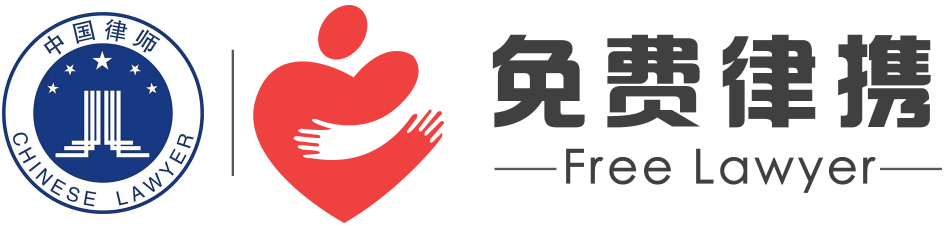
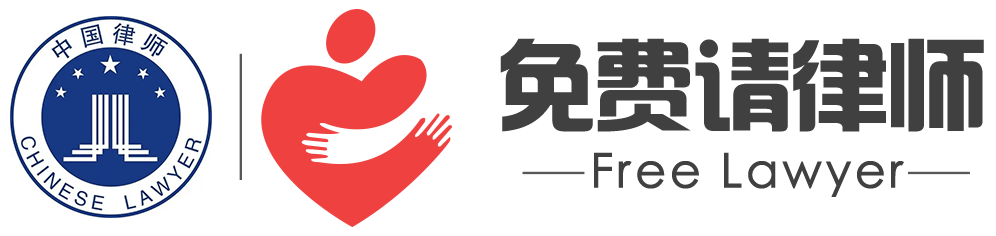
several modifications

Changed region(s): [[0.0, 0.0307, 1.0, 0.9825], [0.5211, 0.6447, 1.0, 0.8596]]

diff --git a/src/pages/home/index.jsx b/src/pages/home/index.jsx
@@ -1,6 +1,7 @@
 import styles from './index.module.scss'
 import imgHomeBanner from '../../assets/images/img_home_banner.png'
 import imgHomeHeart from '../../assets/images/img_home_heart.png';
+import imgHomeHandsInHands from '../../assets/images/img_home_hands_in_hands.png';
 import imgHomeBlockedHeart from '../../assets/images/img_home_blocked_heart.png'
 import icQualification1 from '../../assets/ic_home_qualification1.svg';
 import icQualification2 from '../../assets/ic_home_qualification2.svg';
@@ -8,6 +9,10 @@ import icQualification3 from '../../assets/ic_home_qualification3.svg';
 import icHonor from '../../assets/ic_home_honor.svg';
 import icInvestigation from '../../assets/ic_home_investigation.svg';
 import icReport from '../../assets/ic_home_report.svg';
+import icHomeLogoDouyin from '../../assets/ic_logo_douyin.png';
+import icHomeLogoJinritoutiao from '../../assets/ic_logo_jinritoutiao.png';
+import icHomeLogoSinaBlog from '../../assets/ic_logo_sina_blog.png';
+import icHomeLogoLongwen from '../../assets/ic_logo_longwen.png';
 
 import {Button} from "antd-mobile";
 
@@ -29,7 +34,7 @@ function HomePage() {
             <div className={styles.bannerWrapper}>
                 <img src={imgHomeBanner} className={styles.bannerImage}/>
                 <div className={styles.bannerTextWrapper}>
-                    <span>律携联盟·平稳运行6年211天</span>
+                    <span>免费请律师·平稳运行6年211天</span>
                     <span style={{fontSize: '2.8rem', fontWeight: 'bold'}}>已捐助互助金3.24亿元</span>
                     <span>累计帮助全国6889个人</span>
                 </div>
@@ -39,12 +44,12 @@ function HomePage() {
             <div className={styles.principleWrapper}>
                 <div className={styles.titleWrapper}>
                     <div className={styles.indicator}/>
-                    <span className={styles.title}>律携互助原理</span>
+                    <span className={styles.title}>免费请律师互助原理</span>
                 </div>
                 <div className={styles.heartWrapper}>
                     <img src={imgHomeHeart} className={styles.heartShape}/>
                     <div className={styles.textWrapper}>
-                        <span>如果100万会员，有1人需要法律协助! 每人均摊1元，民事案件1000元； 刑事案件3000元；即可助其度过难关</span>
+                        <span>如果100万会员，有1人需要法律协助！<br/>每人均摊1元，民事案件1000元；<br/> 刑事案件3000元；即可助其度过难关</span>
                         <span style={{color: 'red'}}>无事儿我帮人，有事儿人帮我</span>
                     </div>
                 </div>
@@ -63,14 +68,14 @@ function HomePage() {
                     </div>
                 </div>
                 <div className={styles.planWrapper}>
-                    <div className={styles.planTitle}>律携互助计划60元(5年服务)</div>
+                    <div className={styles.planTitle}>免费请律师互助计划60元(5年服务)</div>
                     <div className={styles.planContent}>
-                        <div className={styles.placeholderBlock}/>
+                        <img src={imgHomeHandsInHands} className={styles.placeholderBlock} />
                         <div className={styles.planDetailWrapper}>
                             <span style={{fontSize: '1.6rem', color: '#030303'}}>最高互助金额<span
-                                style={{color: 'red'}}>10000元</span></span>
-                            <span>民事案件3000元</span>
-                            <span>刑事案件10000元</span>
+                                style={{color: 'red'}}>30000元</span></span>
+                            <span>民事案件10000元</span>
+                            <span>刑事案件30000元</span>
                             <Button className={styles.styledButton}>为亲友加入</Button>
                         </div>
                     </div>
@@ -97,11 +102,11 @@ function HomePage() {
                 <div className={styles.itemWrapper}>
                     <div className={styles.descTitleWrapper}>
                         <img src={icHonor} className={styles.iconWrapper2}/>
-                        <span>律携荣誉</span>
+                        <span>获得荣誉</span>
                     </div>
                     <div className={styles.descContentWrapper}>
                         <span>河南龙文律师事务所</span>
-                        <span>天使中国·创新创业大赛冠军</span>
+                        <span>中国·创新大赛优秀奖</span>
                         <span>2024科技创新创业先进单位</span>
                     </div>
                 </div>
@@ -111,10 +116,9 @@ function HomePage() {
                         <span>权威报道</span>
                     </div>
                     <div className={styles.descContentWrapper2}>
-                        <img src={icInvestigation} className={styles.logoWrapper}/>
-                        <img src={icInvestigation} className={styles.logoWrapper}/>
-                        <img src={icInvestigation} className={styles.logoWrapper}/>
-                        <img src={icInvestigation} className={styles.logoWrapper}/>
+                        <img src={icHomeLogoDouyin} className={styles.logoWrapper}/>
+                        <img src={icHomeLogoJinritoutiao} className={styles.logoWrapper}/>
+                        <img src={icHomeLogoSinaBlog} className={styles.logoWrapper}/>
                     </div>
                 </div>
                 <div className={styles.itemWrapper}>
@@ -123,8 +127,7 @@ function HomePage() {
                         <span>权威投资</span>
                     </div>
                     <div className={styles.descContentWrapper2}>
-                        <img src={icInvestigation} className={styles.logoWrapper}/>
-                        <img src={icInvestigation} className={styles.logoWrapper}/>
+                        <img src={icHomeLogoLongwen} className={styles.logoWrapper}/>
                     </div>
                 </div>
             </div>

diff --git a/src/pages/about/index.jsx b/src/pages/about/index.jsx
@@ -127,10 +127,10 @@ function AboutPage() {
         switch (operationType) {
             case 'know': {
                 const result = await Modal.alert({
-                    title: '关于律携',
+                    title: '关于免费请律师',
                     content: (
                         <div style={{padding: '10px'}}>
-                            <p>律携是河南龙文律师事务所以及多家投资机构成立的一家以“互帮互助”文化为核心的网络社群，维护广大人民群众权利和利益的法律援助，为百姓提供的一种低价亲民的全新援助保障形式。</p>
+                            <p>免费请律师是河南龙文律师事务所以及多家投资机构成立的一家以“互帮互助”文化为核心的网络社群，维护广大人民群众权利和利益的法律援助，为百姓提供的一种低价亲民的全新援助保障形式。</p>
                             <p>截止目前，已稳定运行<span style={{color: 'red'}}>6年337天</span>，已经累计互助<span
                                 style={{color: 'red'}}>6445人</span>，累计互助金额<span
                                 style={{color: 'red'}}>3.24亿元</span>。赶快一起加入吧！</p>
@@ -222,11 +222,11 @@ function AboutPage() {
                 <div className={styles.content}>
                     <div className={styles.contentItemWrapper} onClick={() => showModal('know')}>
                         <img src={icAboutKnow} className={styles.contentItemImage}/>
-                        <span className={styles.contentItemLabel}>了解律携</span>
+                        <span className={styles.contentItemLabel}>了解免费请律师</span>
                     </div>
                     <div className={styles.contentItemWrapper} onClick={() => navigateTo('rewards')}>
                         <img src={icAboutRewards} className={styles.contentItemImage}/>
-                        <span className={styles.contentItemLabel}>律携荣誉</span>
+                        <span className={styles.contentItemLabel}>免费请律师荣誉</span>
                     </div>
                     <div className={styles.contentItemWrapper} onClick={() => navigateTo('news')}>
                         <img src={icAboutNews} className={styles.contentItemImage}/>

diff --git a/src/pages/home/index.module.scss b/src/pages/home/index.module.scss
@@ -139,15 +139,16 @@
         flex-direction: row;
         justify-content: center;
         align-items: center;
-        padding: 1rem;
+        padding: 2rem 1rem;
         width: calc(100% - 2rem);
         height: 100%;
 
         .placeholderBlock {
           width: 11rem;
-          height: 11rem;
-          border-radius: 6px;
-          background: #e1e1e1;
+          background-clip: border-box;
+          border-radius: 0.75rem;
+          // box-shadow: 0px 4px 14px 4px rgba(0,0,0,0.15);
+          border: 1px solid rgba(0,0,0,0.35);
         }
 
         .planDetailWrapper {
@@ -285,7 +286,8 @@
         border-left: 1px #dfdfdf solid;
 
         .logoWrapper {
-          width: 5rem;
+          height: 4rem;
+          margin-left: 1rem;
         }
       }
     }

diff --git a/src/pages/login/index.jsx b/src/pages/login/index.jsx
@@ -135,7 +135,7 @@ function Login() {
                 style={{marginTop:'8rem', width: '90%'}}
                 loading={loading}
             >
-                确定
+                确认
             </Button>
         </div>
     )
